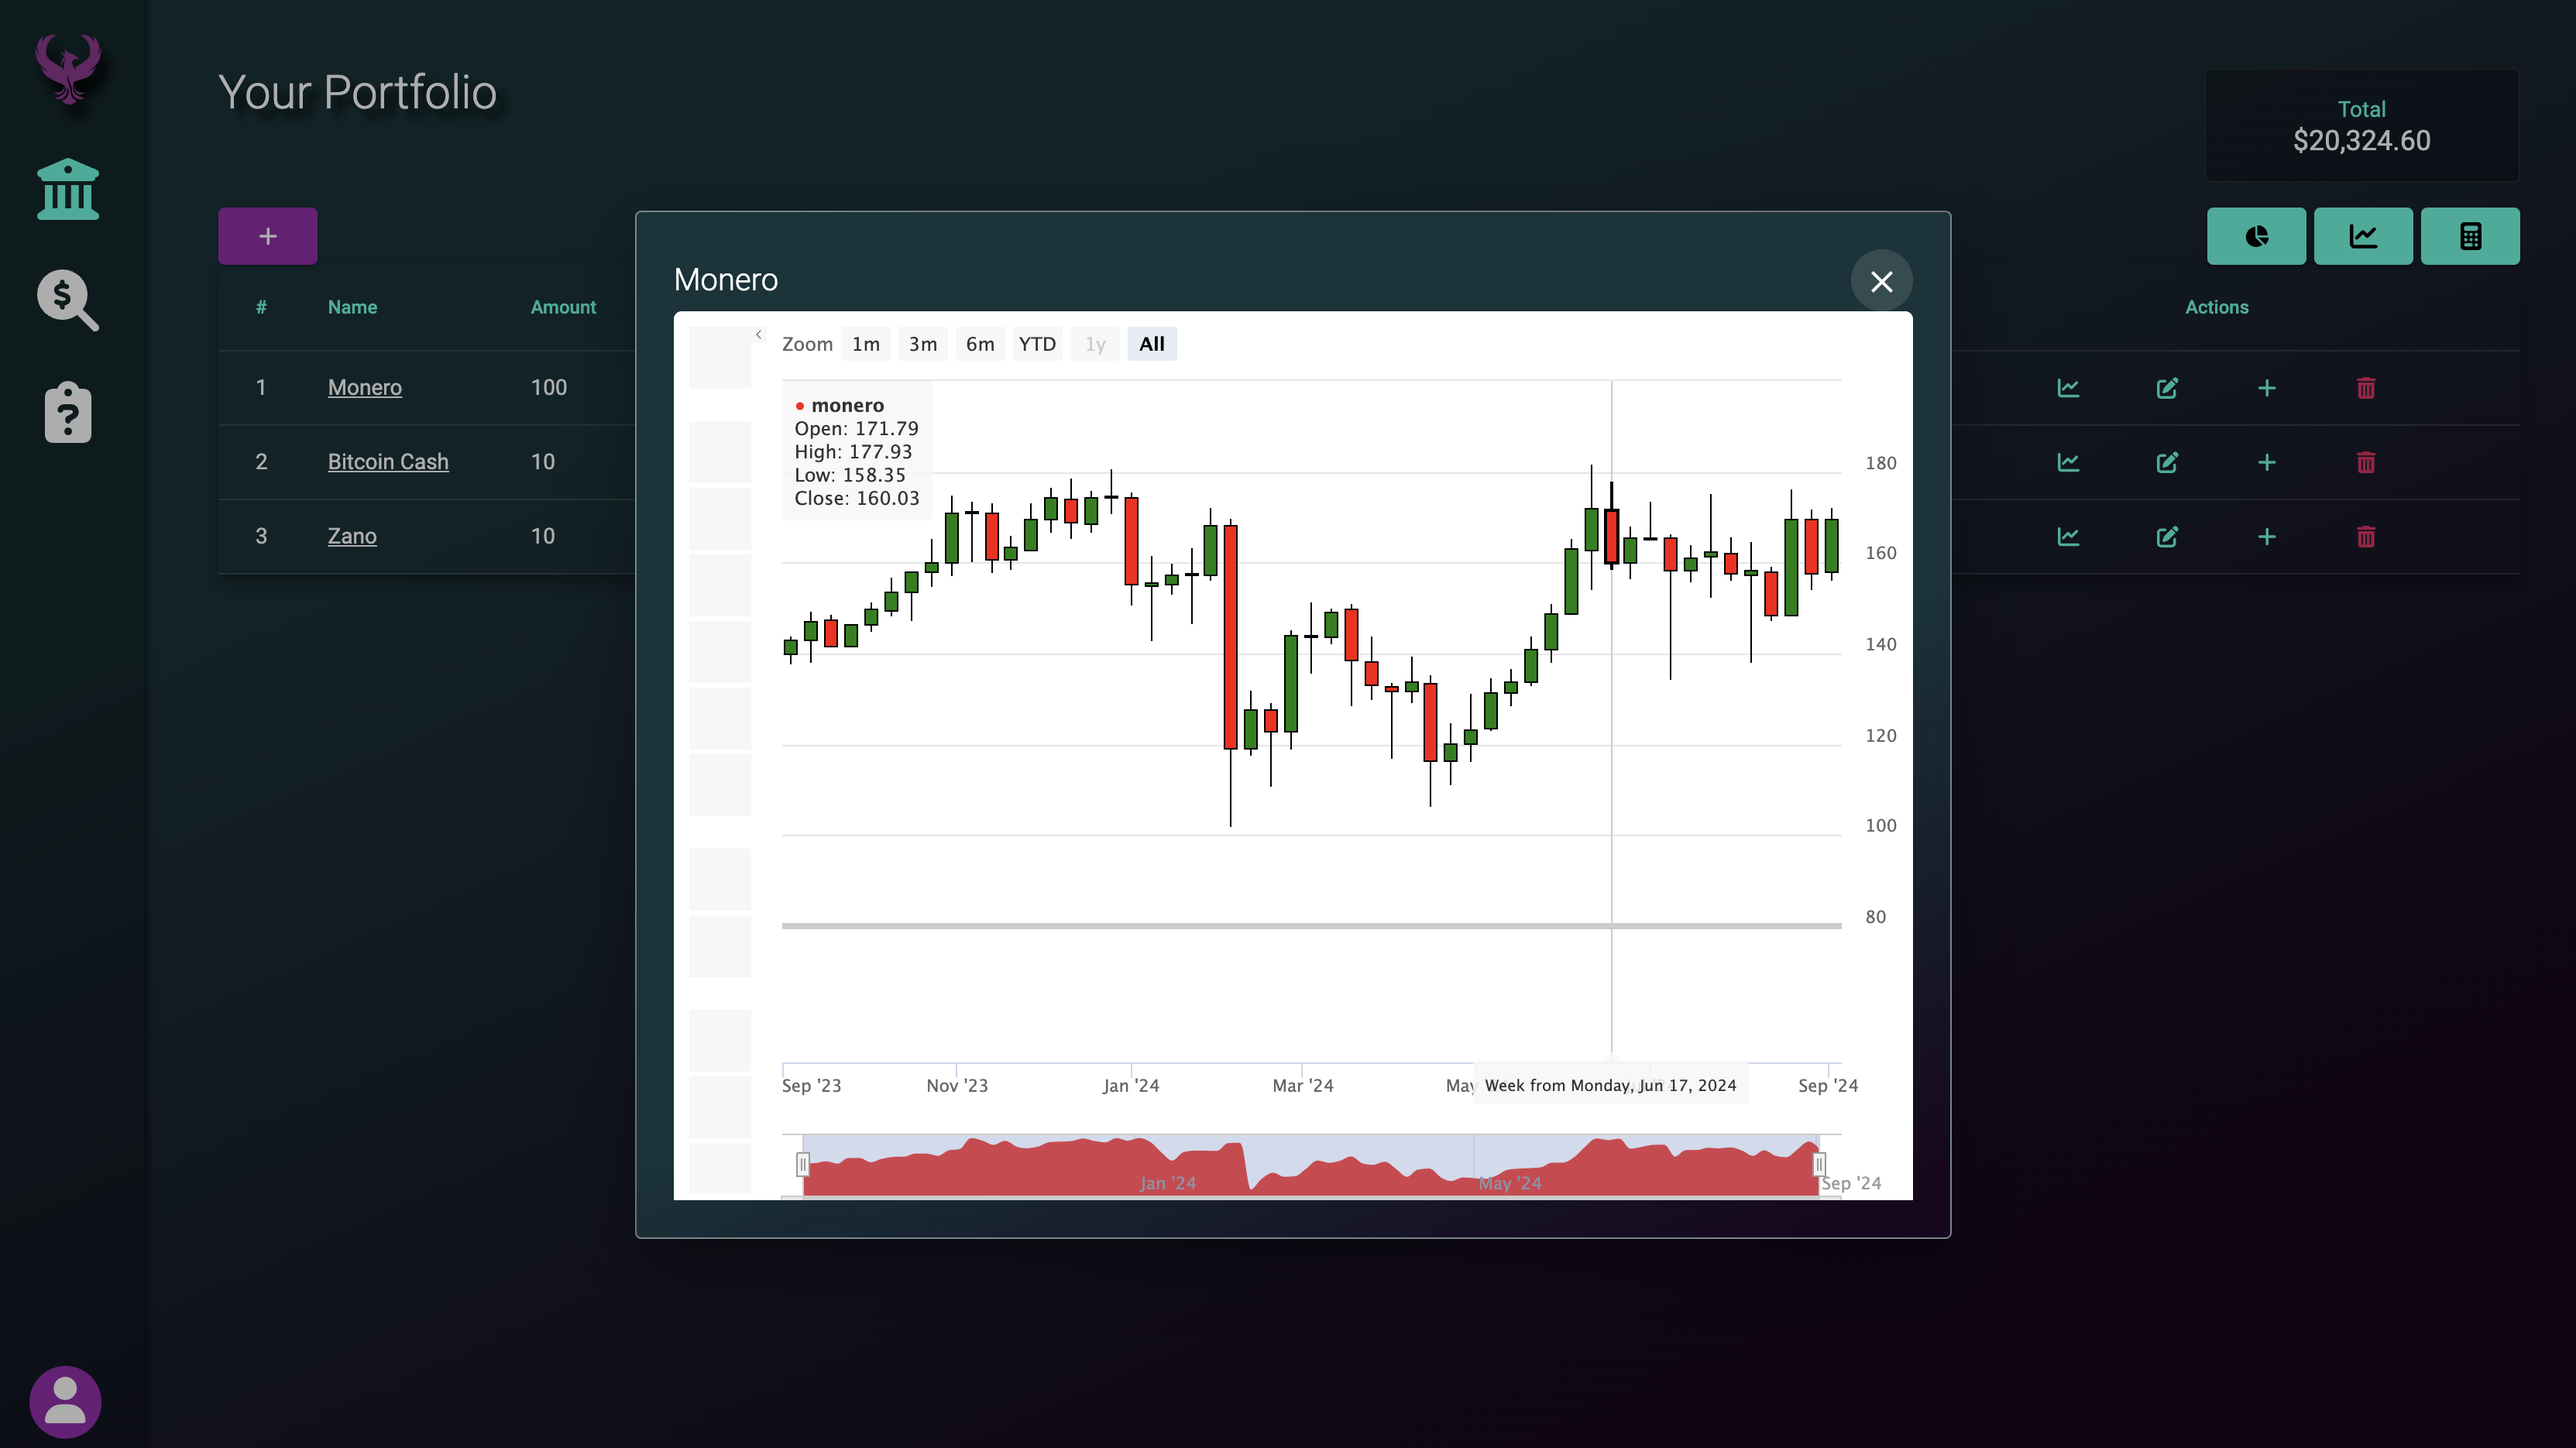
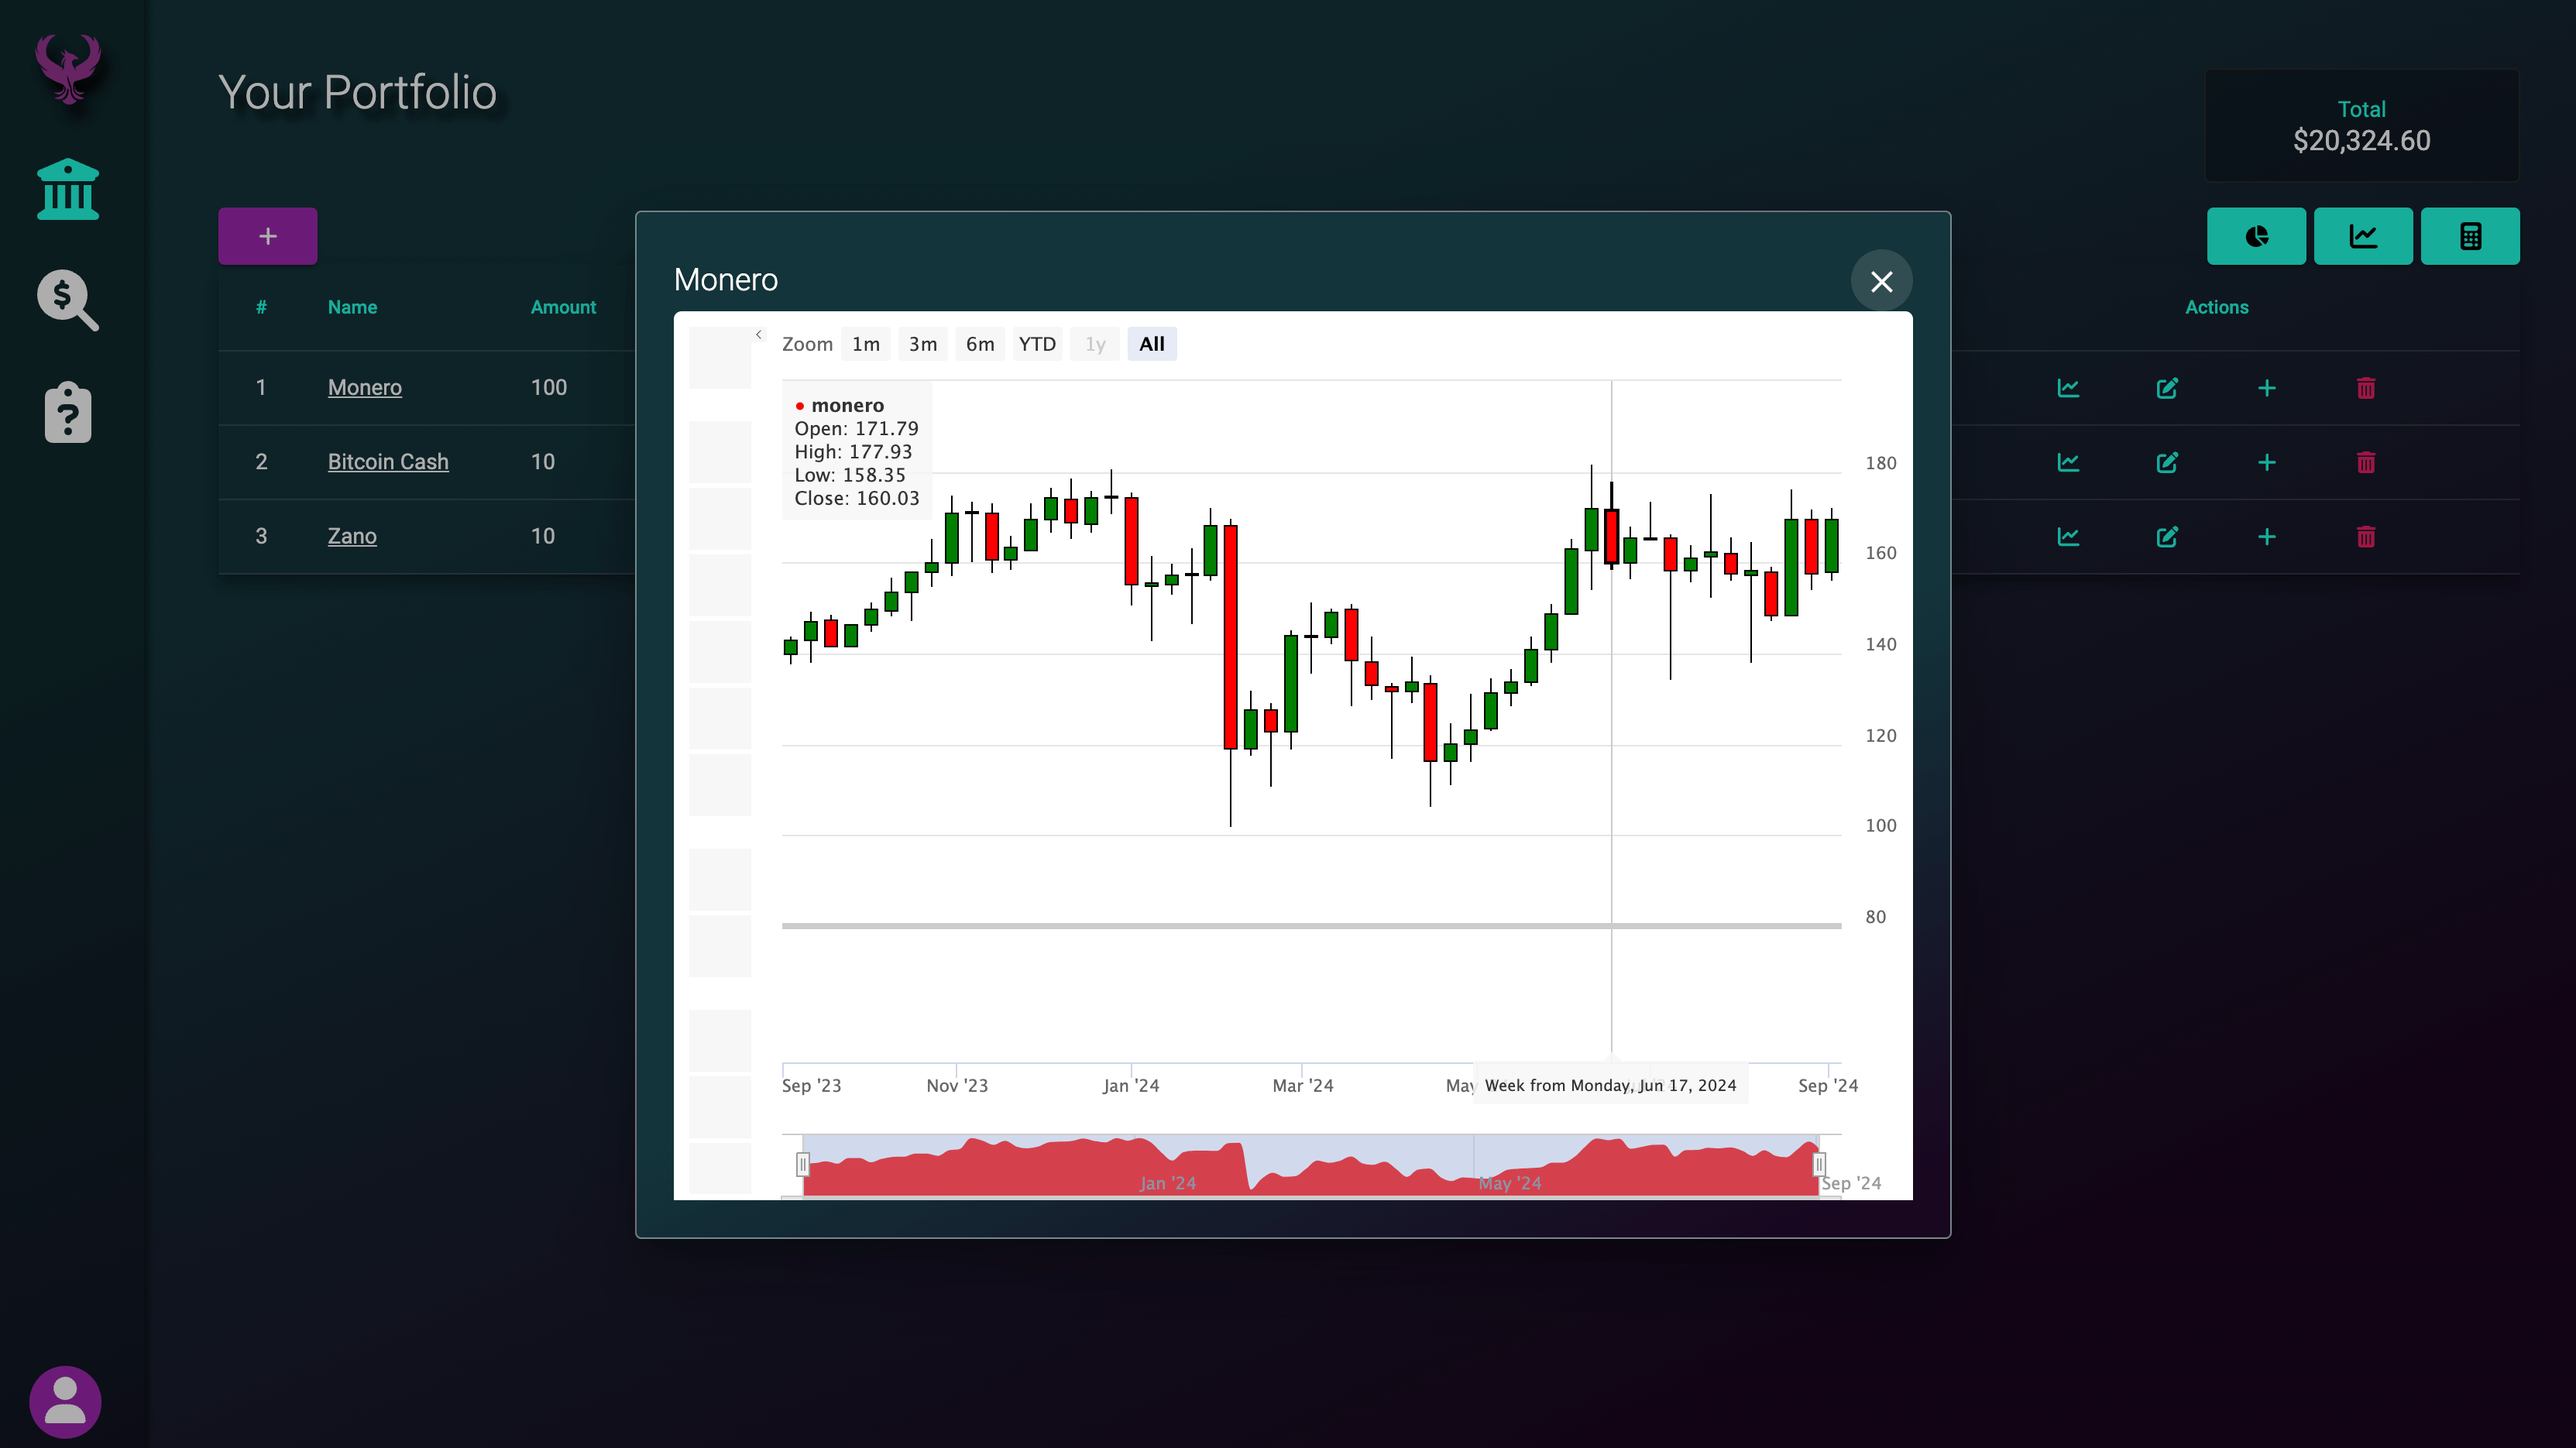
compressed image sizes

diff --git a/src/app/library/components/header/header.component.html b/src/app/library/components/header/header.component.html
@@ -5,7 +5,7 @@
       <div class="logo-container">
         <img
           width="50px"
-          src="./../../assets/images/pheonix_purple.png"
+          src="./../../assets/images/pheonix_purple.webp"
           alt="Fundamentally Logo"
         />
         <div class="text-logo">FUNDAMENTALLY</div>
